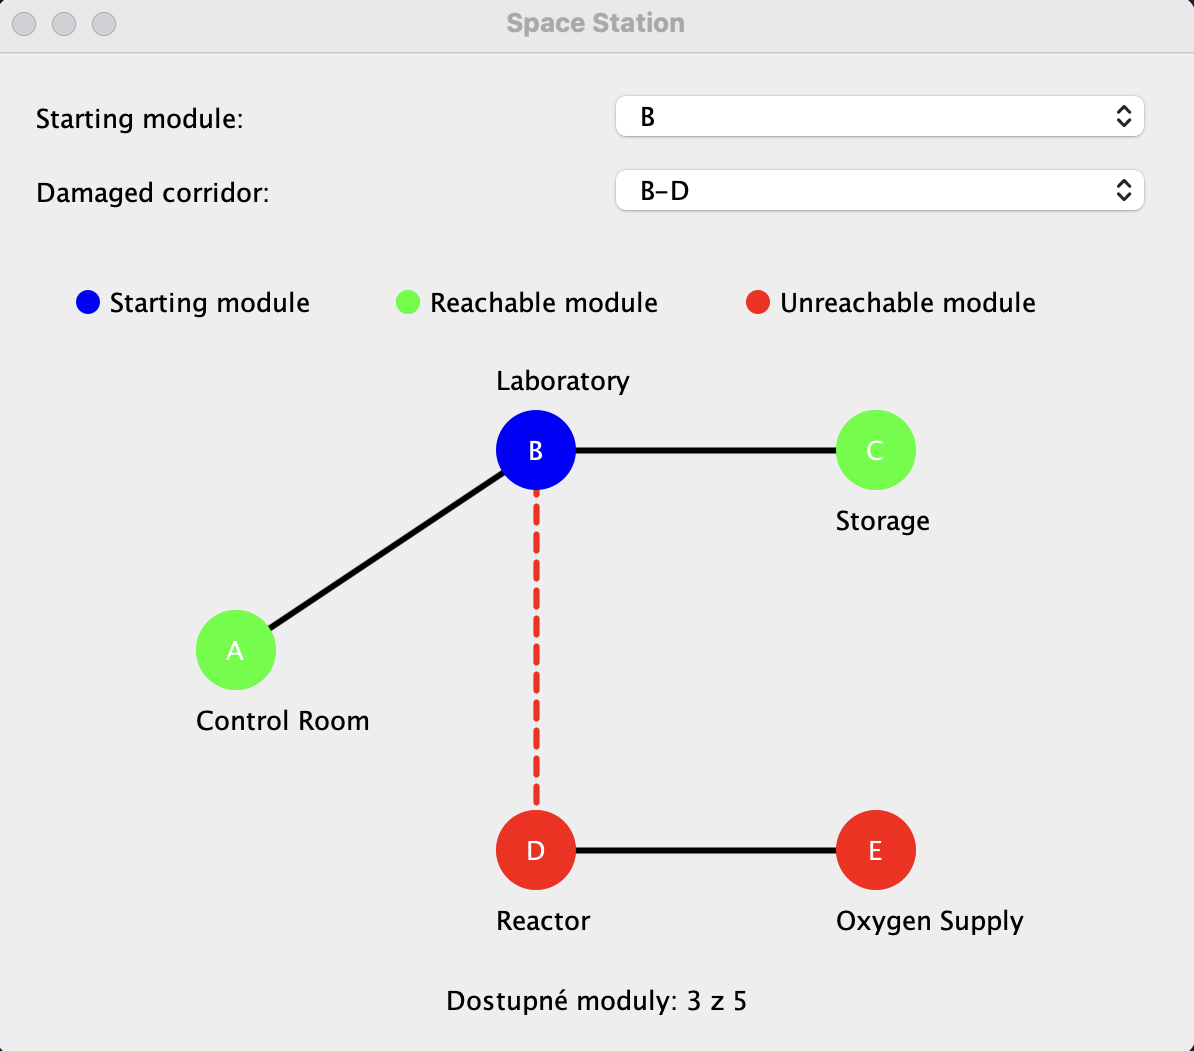
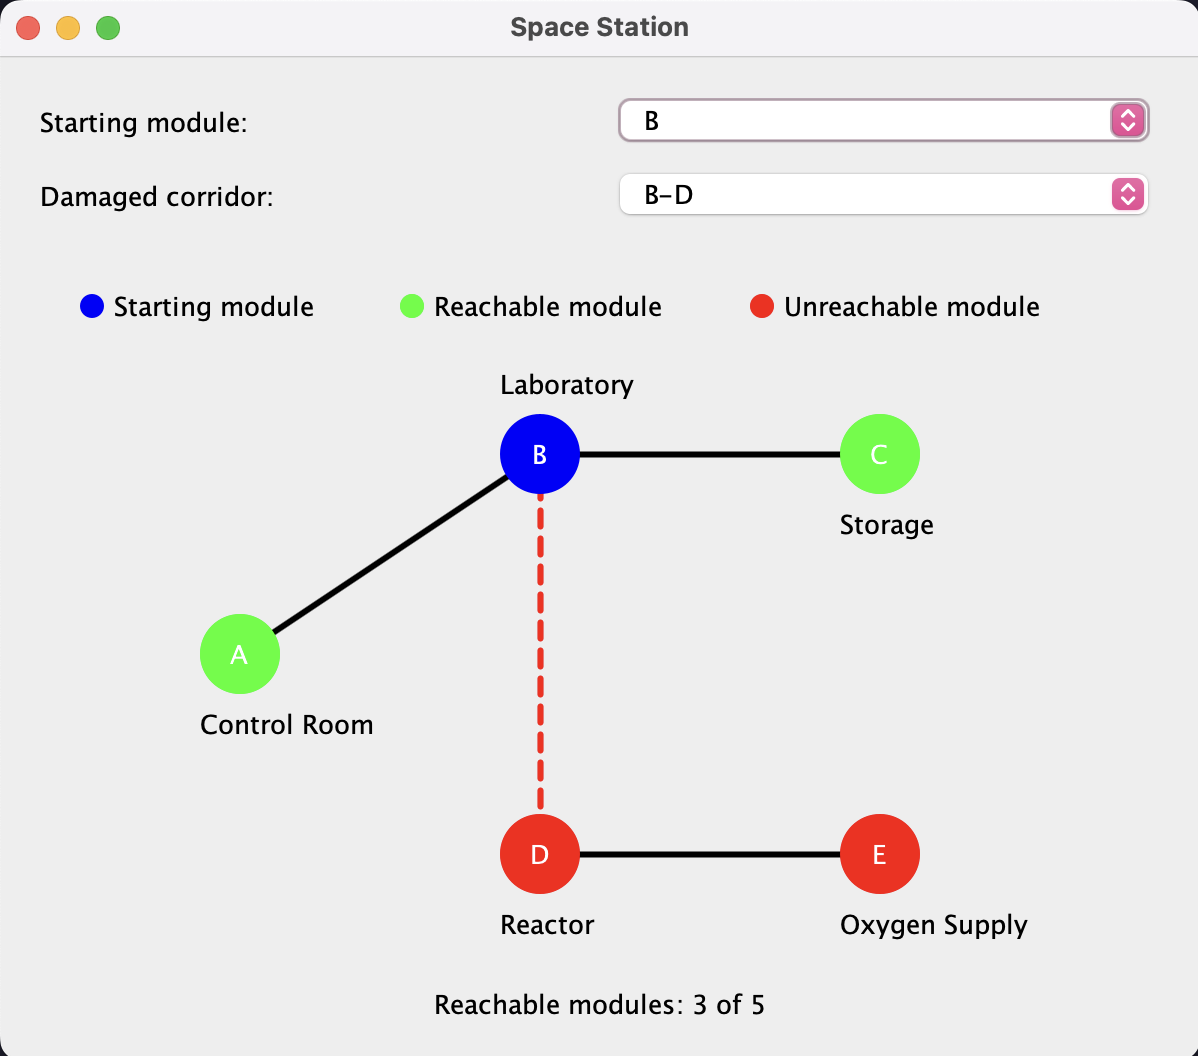
fix

diff --git a/src/main/java/com/nadyagrishina/Main.java b/src/main/java/com/nadyagrishina/Main.java
@@ -68,7 +68,7 @@ public class Main {
 
                 panel.updateGraph(result, start, from, to);
                 status.setText(
-                        "Dostupné moduly: " + result.size() + " z " + graph.size()
+                        "Reachable modules: " + result.size() + " of " + graph.size()
                 );
             };
 
